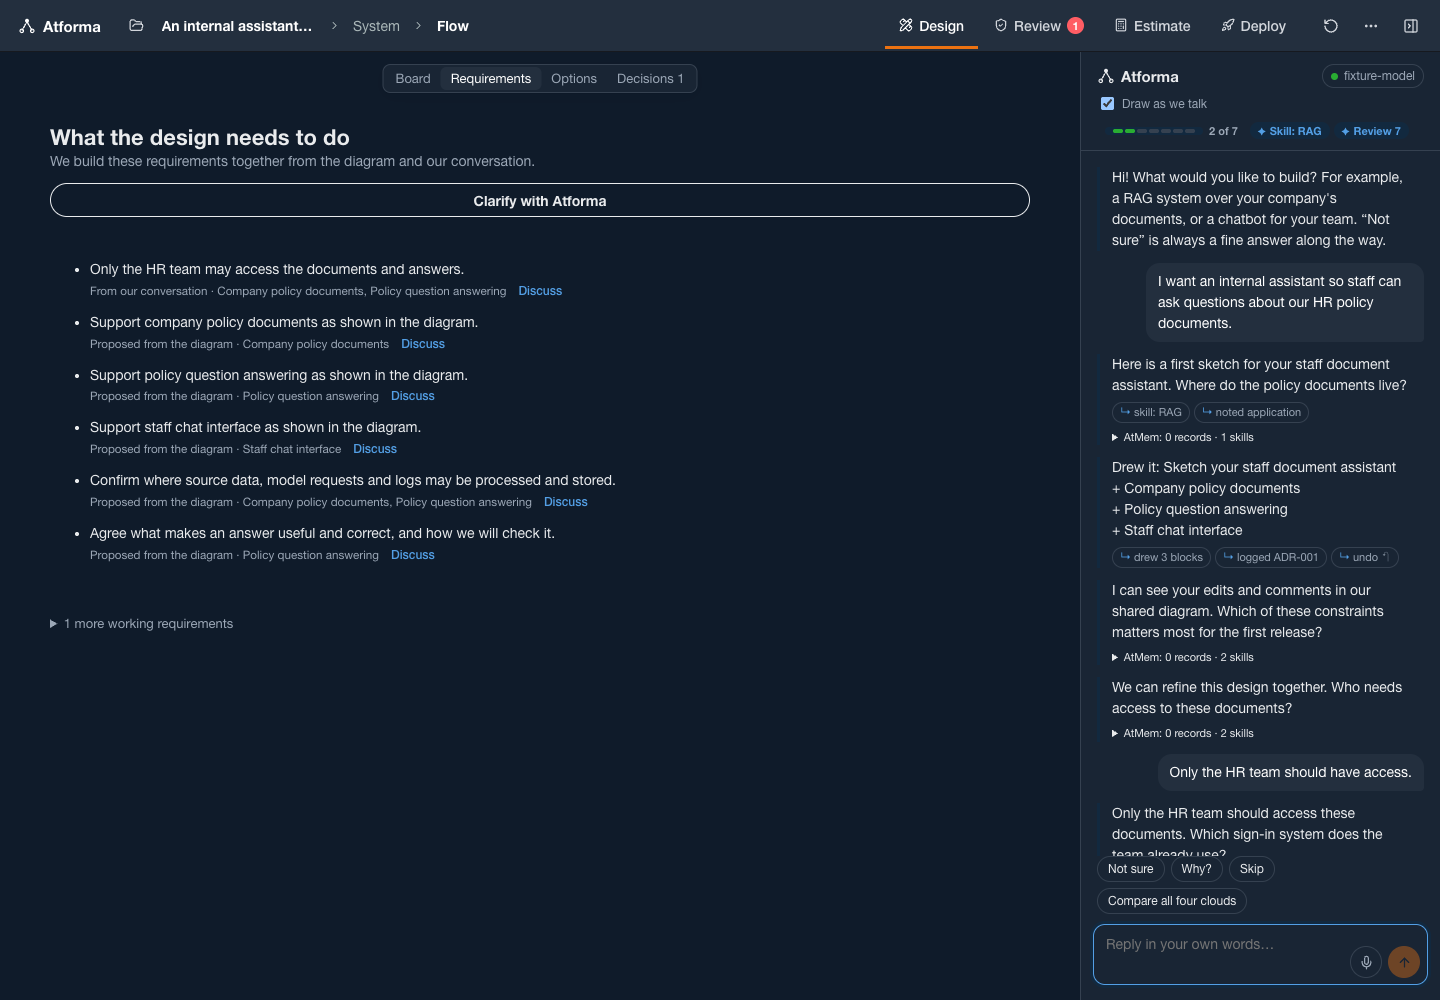
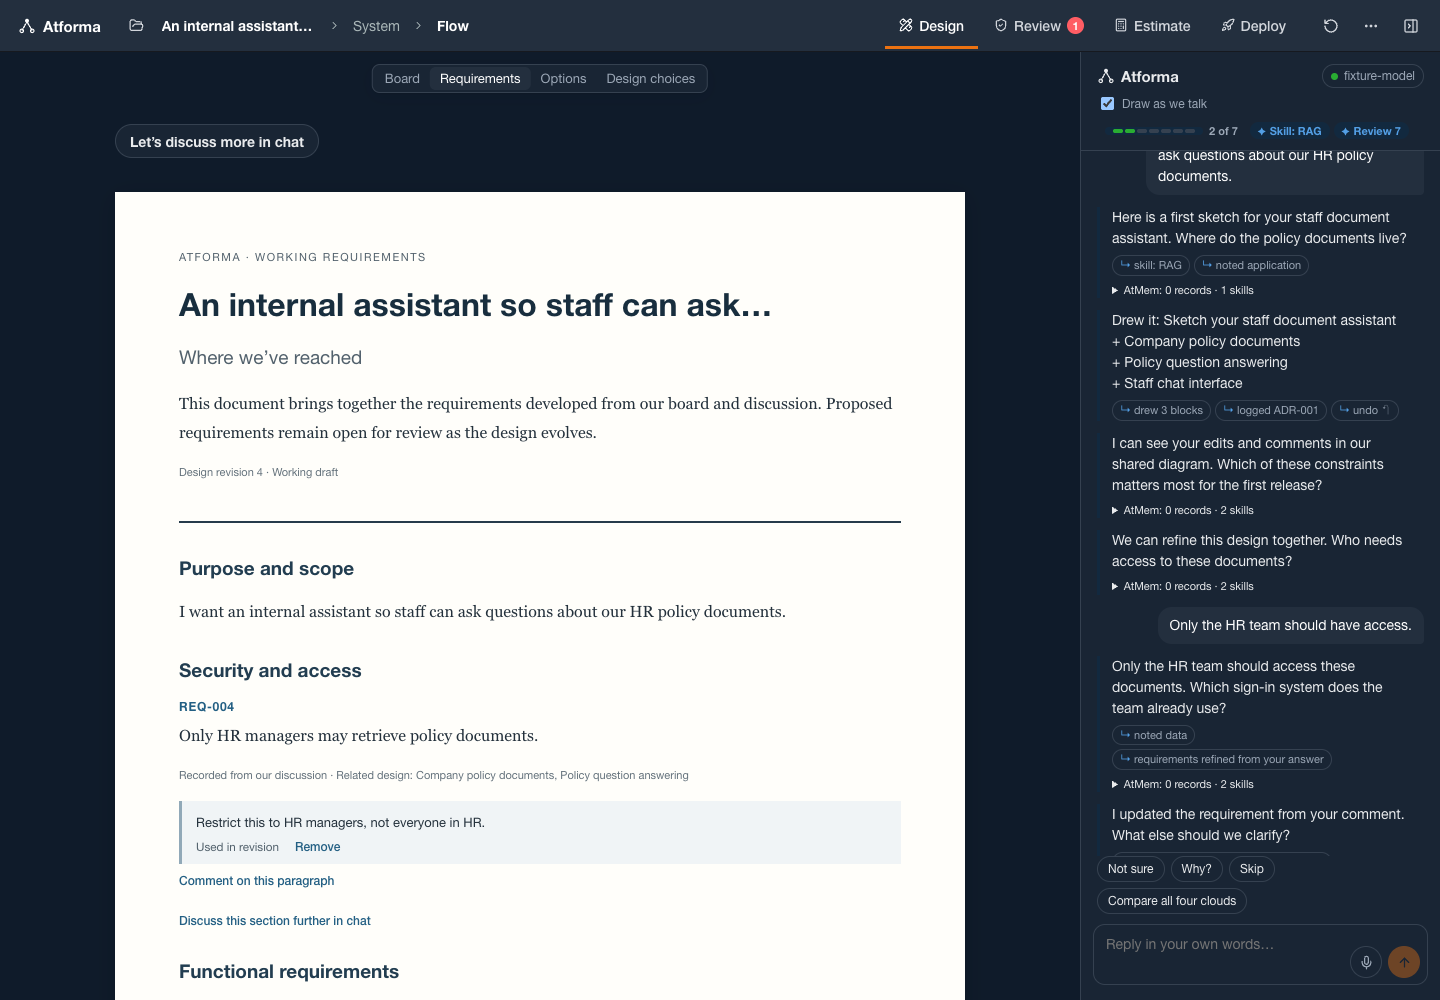
feat: number requirements and revise them from paragraph comments

diff --git a/src/EngagementViews.jsx b/src/EngagementViews.jsx
@@ -1,5 +1,6 @@
 // Consultant views: Discover (qualify), Options and Decisions (design), Build card.
 import React from "react";
+import { requirementNumber } from "./derive.mjs";
 import { Plus, Trash2 } from "lucide-react";
 import {
   BRIEF_FIELDS,
@@ -271,8 +272,24 @@ export function MeasuresEditor({ measures = [], disabled, onChange }) {
   );
 }
 
-export function RequirementsView({ project, onDiscuss }) {
+function RequirementComments({ requirement, comments, onSave, onRemove }) {
+  const [open,setOpen]=React.useState(false), [text,setText]=React.useState('');
+  return <aside className="requirement-comments" aria-label={`Comments on ${requirement.id}`}>
+    {comments.map(c=><div className="requirement-comment" key={c.id}><p>{c.text}</p><small>{c.status==='reviewed'?'Used in revision':'Awaiting review'}</small><button className="link" onClick={()=>onRemove(c.id)} aria-label={`Remove comment ${c.id}`}>Remove</button></div>)}
+    {!open ? <button className="link document-discuss" onClick={()=>setOpen(true)}>Comment on this paragraph</button> : <div className="comment-composer">
+      <textarea aria-label={`Comment on ${requirement.id}`} value={text} maxLength={700} onChange={e=>setText(e.target.value)} placeholder="What should we clarify or change?" autoFocus />
+      <button className="btn" disabled={!text.trim()} onClick={()=>{onSave(text.trim());setText('');setOpen(false);}}>Save comment</button>
+      <button className="link" onClick={()=>{setOpen(false);setText('');}}>Cancel</button>
+    </div>}
+  </aside>;
+}
+
+export function RequirementsView({ project, onDiscuss, onChange, onReview, reviewing }) {
   const needs = project.needs || [];
+  const comments = project.extensions?.requirementComments || [];
+  const pending = comments.filter(c=>c.status!=='reviewed' && needs.some(r=>r.id===c.requirementId));
+  const saveComments = value => onChange({...project,extensions:{...project.extensions,requirementComments:value}});
+
   const names = Object.fromEntries(project.nodes.map(n => [n.id, n.data.label]));
   const titles = {functional:'Functional requirements',security:'Security and access',compliance:'Data governance and compliance',availability:'Availability and recovery',reliability:'Reliability',performance:'Performance',scalability:'Capacity and growth',maintainability:'Operations and maintainability',cost:'Cost constraints',other:'Quality requirements'};
   const groups = new Map();
@@ -284,7 +301,9 @@ export function RequirementsView({ project, onDiscuss }) {
   const questions = (project.openQuestions || []).filter(q=>q.status==='open');
   const purpose = project.brief?.application || project.requirements;
   return <section className="doc requirements-document" aria-label="Requirements">
-    <div className="requirements-actions"><button className="btn" onClick={() => onDiscuss('Summarise where we have reached from the current board and our discussion. Distinguish what I have confirmed from your proposals and unresolved questions. Then ask ONE useful question to develop the requirements further, and update the summary as we discuss.')}>Let’s discuss more in chat</button></div>
+    <div className="requirements-actions"><button className="btn" onClick={() => onDiscuss('Summarise where we have reached from the current board and our discussion. Distinguish what I have confirmed from your proposals and unresolved questions. Then ask ONE useful question to develop the requirements further, and update the summary as we discuss.')}>Let’s discuss more in chat</button>
+      {!!pending.length && <button className="btn" disabled={reviewing} onClick={()=>onReview(pending.slice(0,6))}>{reviewing?'Reviewing comments…':'Review comments and revise'} ({Math.min(6,pending.length)})</button>}
+    </div>
     <article className="requirements-paper" aria-label="Requirements document">
       <header className="requirements-cover">
         <p className="document-kicker">Atforma · Working requirements</p>
@@ -299,9 +318,11 @@ export function RequirementsView({ project, onDiscuss }) {
       {[...groups].map(([key,rows])=><section className="requirements-chapter" key={key}>
         <h3>{titles[key] || 'Additional requirements'}</h3>
         {rows.map(r=><div className="requirement-paragraph" key={r.id}>
+          <h4 className="requirement-number">{requirementNumber(project,r.id)}</h4>
           <p>{r.statement}</p>
           {r.measure && <p className="acceptance-target">Acceptance target: {r.measure.metric} {r.measure.op} {r.measure.target} {r.measure.unit || ''}.</p>}
           <p className="document-meta">{r.source === 'agent' ? 'Proposed for discussion' : 'Recorded from our discussion'}{r.links?.length ? ` · Related design: ${r.links.map(id=>names[id] || 'earlier component').join(', ')}` : ''}</p>
+          <RequirementComments requirement={r} comments={comments.filter(c=>c.requirementId===r.id)} onSave={text=>saveComments([...comments,{id:crypto.randomUUID(),requirementId:r.id,text,statement:r.statement,status:'open',createdAt:new Date().toISOString()}])} onRemove={id=>saveComments(comments.filter(c=>c.id!==id))} />
         </div>)}
         <button className="link document-discuss" onClick={()=>onDiscuss(`Let's discuss the ${titles[key] || key} section of our requirements document further. Current requirements: ${rows.map(r=>`${r.id}: ${r.statement}`).join('; ')}. Ask one useful question and refine the document from my answer.`)}>Discuss this section further in chat</button>
       </section>)}

diff --git a/src/main.jsx b/src/main.jsx
@@ -1109,7 +1109,9 @@ function App() {
       if (result.requirementUpdates?.length) {
         const p = projectRef.current;
         const updates = new Map(result.requirementUpdates.filter(u => message.includes(u.sourceText)).map(u => [u.id,u]));
-        updateEngagement({ ...p, needs: (p.needs || []).map(r => updates.has(r.id) ? { ...r, statement: updates.get(r.id).statement, source: "user" } : r) });
+        const applicable = new Map([...updates].filter(([id]) => was.needs?.find(r=>r.id===id)?.statement === p.needs?.find(r=>r.id===id)?.statement));
+        updateEngagement({ ...p, needs: (p.needs || []).map(r => applicable.has(r.id) ? { ...r, statement: applicable.get(r.id).statement, source: "user" } : r),
+          extensions: {...p.extensions,requirementComments:(p.extensions?.requirementComments || []).map(c=> applicable.has(c.requirementId) && applicable.get(c.requirementId).sourceText === c.text ? {...c,status:'reviewed',revisedStatement:applicable.get(c.requirementId).statement} : c)} });
         signals.push("requirements refined from your answer");
       }
       if (result.decisionUpdates?.length) updateEngagement(applyDecisionUpdates(projectRef.current,result.decisionUpdates,message));
@@ -1892,7 +1894,7 @@ function App() {
           <DecisionsView project={project} onDiscuss={(question) => { setChatOpen(true); send(question, "workflow"); }} />
         )}
         {mode === "design" && designView === "requirements" && (
-          <RequirementsView project={project} onDiscuss={(question) => { setChatOpen(true); send(question, "workflow"); }} />
+          <RequirementsView project={project} onChange={updateEngagement} reviewing={agentBusy} onReview={(comments)=>{setChatOpen(true);send("Review these user comments on the requirements document. Return requirementUpdates for the existing IDs where the feedback is clear, quoting the user's comment exactly in sourceText. Preserve other requirements and the diagram. Ask one question if a comment is ambiguous.\n" + comments.map(c=>`Requirement ${c.requirementId} — comment: ${c.text}`).join("\n"), "document");}} onDiscuss={(question) => { setChatOpen(true); send(question, "workflow"); }} />
         )}
       </main>
 

diff --git a/src/atflow.css b/src/atflow.css
@@ -780,3 +780,14 @@ label.inline input { width: 60px; }
 .requirements-paper .document-discuss { color: #235f83; font-size: 12px; text-align: left; }
 .document-footer { border-top: 1px solid #d8dee1; padding-top: 16px; margin-top: 44px; font-size: 10px; color: #63717b; }
 @media (max-width: 700px) { .requirements-paper { padding: 28px 22px; } .requirements-paper h2 { font-size: 25px; } }
+
+.requirements-actions { display:flex; flex-wrap:wrap; gap:12px; }
+.requirement-comments { margin-top:10px; }
+.requirement-comment { background:#f0f4f6; border-left:3px solid #91a9b8; padding:10px 14px; margin:8px 0; }
+.requirements-paper .requirement-comment p { font-family:inherit; font-size:13px; margin-bottom:4px; white-space:pre-wrap; }
+.requirement-comment small { color:#52616c; margin-right:16px; }
+.requirement-comments .link { color:#235f83; font-size:12px; }
+.comment-composer textarea { display:block; width:100%; min-height:80px; margin:10px 0; padding:10px; background:white; color:#24313c; border:1px solid #91a9b8; border-radius:4px; box-sizing:border-box; font:inherit; }
+.comment-composer .btn { background:#235f83; color:white; margin-right:12px; }
+
+.requirements-paper .requirement-number { color:#235f83; font-size:12px; letter-spacing:.06em; margin:0 0 8px; }

diff --git a/server/agent_runtime.py b/server/agent_runtime.py
@@ -17,7 +17,7 @@ async def run(architect, payload, disconnected):
     project = payload.projectId
     if memory.enabled(project) and payload.origin=='chat' and payload.message.lower().startswith('remember about me:'):
         await asyncio.to_thread(memory.profile,project,'preferences',payload.message.split(':',1)[1].strip())
-    needs_memory = payload.origin != 'canvas' and not re.fullmatch(r'\s*(hi|hello|thanks|thank you|ok|okay)[.!\s]*',payload.message,re.I)
+    needs_memory = payload.origin not in {'canvas','document'} and not re.fullmatch(r'\s*(hi|hello|thanks|thank you|ok|okay)[.!\s]*',payload.message,re.I)
     recalled, status = await asyncio.to_thread(memory.recall, project, payload.message) if needs_memory else ([], memory.status(project))
     if status['enabled'] and status['status'] == 'ready':
         await asyncio.to_thread(skills.publish, memory, project)
@@ -87,7 +87,7 @@ async def run(architect, payload, disconnected):
             output['usageUpdates']=[u for u in output['usageUpdates'] if u['sourceText'] in payload.message and any(float(n.replace(',',''))==u['value'] for n in re.findall(r'\d+(?:,\d{3})*(?:\.\d+)?',u['sourceText']))]
         if output.get('requirementUpdates'):
             allowed = {c.id for c in payload.context if c.type=='requirement'}
-            output['requirementUpdates']=[u for u in output['requirementUpdates'] if u['id'] in allowed and u['sourceText'] in payload.message and payload.origin=='chat']
+            output['requirementUpdates']=[u for u in output['requirementUpdates'] if u['id'] in allowed and u['sourceText'] in payload.message and payload.origin in {'chat','document'}]
         if output.get('decisionUpdates'):
             output['decisionUpdates']=[u for u in output['decisionUpdates'] if u['sourceText'] in payload.message and payload.origin=='chat' and (u['subject']!='platform.cloud' or u['value'] in {'aws','azure','gcp','ibm'})]
         return output

diff --git a/server/tests/e2e_app.py b/server/tests/e2e_app.py
@@ -30,6 +30,10 @@ class FixtureArchitect:
         if msg.startswith('connection check'):return ArchitectResponse(message='Fixture connection ready.')
         if 'compare' in msg and 'optionassessment' in msg:
             return ArchitectResponse(message='All four clouds can support this design; existing systems and residency should drive the choice. Which cloud agreement do you already have?',optionAssessment=[OptionAssessment(provider=provider,scores=Scores(cost=3,risk=3,scalability=4,security=4),rationale=f'Provisional {provider} option for the current document assistant; exact cost and region still need verification.') for provider in ['current','aws','azure','gcp','ibm']])
+        if request.origin=='document':
+            import re
+            match=re.search(r'Requirement (\S+) — comment: (.+)',request.message)
+            return ArchitectResponse(message='I updated the requirement from your comment. What else should we clarify?',requirementUpdates=[RequirementUpdate(id=match[1],statement='Only HR managers may retrieve policy documents.',sourceText=match[2])])
         if request.origin=='canvas':
             return ArchitectResponse(message='I can see your edits and comments in our shared diagram. Which of these constraints matters most for the first release?')
         if request.stage=='estimate' and not runtime.get('toolResults'):

diff --git a/server/contracts.py b/server/contracts.py
@@ -143,7 +143,7 @@ class ContextItem(Strict):
     text:str=Field(max_length=1000)
 
 class ChatRequest(Strict):
-    origin:Literal['chat','canvas','workflow']='chat'
+    origin:Literal['chat','canvas','workflow','document']='chat'
     projectId:str|None=Field(default=None,pattern=r'^[A-Za-z0-9-]{8,64}$')
     message:str=Field(min_length=1,max_length=8000)
     provider:Literal['claude-code','codex','copilot','gemini-cli','anthropic','openai','gemini-api','xai','bedrock']='claude-code'

diff --git a/README.md b/README.md
@@ -87,3 +87,5 @@ The browser stores projects locally; there is no workspace account service or cr
 See [THIRD_PARTY_NOTICES.md](THIRD_PARTY_NOTICES.md), [the merge manifest](docs/merge-manifest.json), [source audit](docs/SOURCE_AUDIT.md), [local architecture](docs/LOCAL_ARCHITECTURE.md), and [Claude Opus 5.5's design review](docs/CLAUDE_5_5_DESIGN_REVIEW.md). Imported upstream licences are preserved; no vendor branding assets are bundled. Original product code has no public open-source licence grant. The product is not commercially cleared by this preliminary engineering inventory.
 
 Options and Design choices are read-only conversational outputs. The architect receives the active view, authors structured requirement proposals from the chat and graph, and refreshes cloud comparisons as answers arrive. Confirmed requirements are preserved; diagram revisions are retained separately from actual choices.
+
+Requirements have stable REQ numbers, retained across document revisions and project saves. Use **Comment on this paragraph**, save your feedback, then **Review comments and revise**. The architect reviews up to six pending comments per turn; comments used in a revision stay visible with their history. Ambiguous or unaddressed feedback remains pending.
